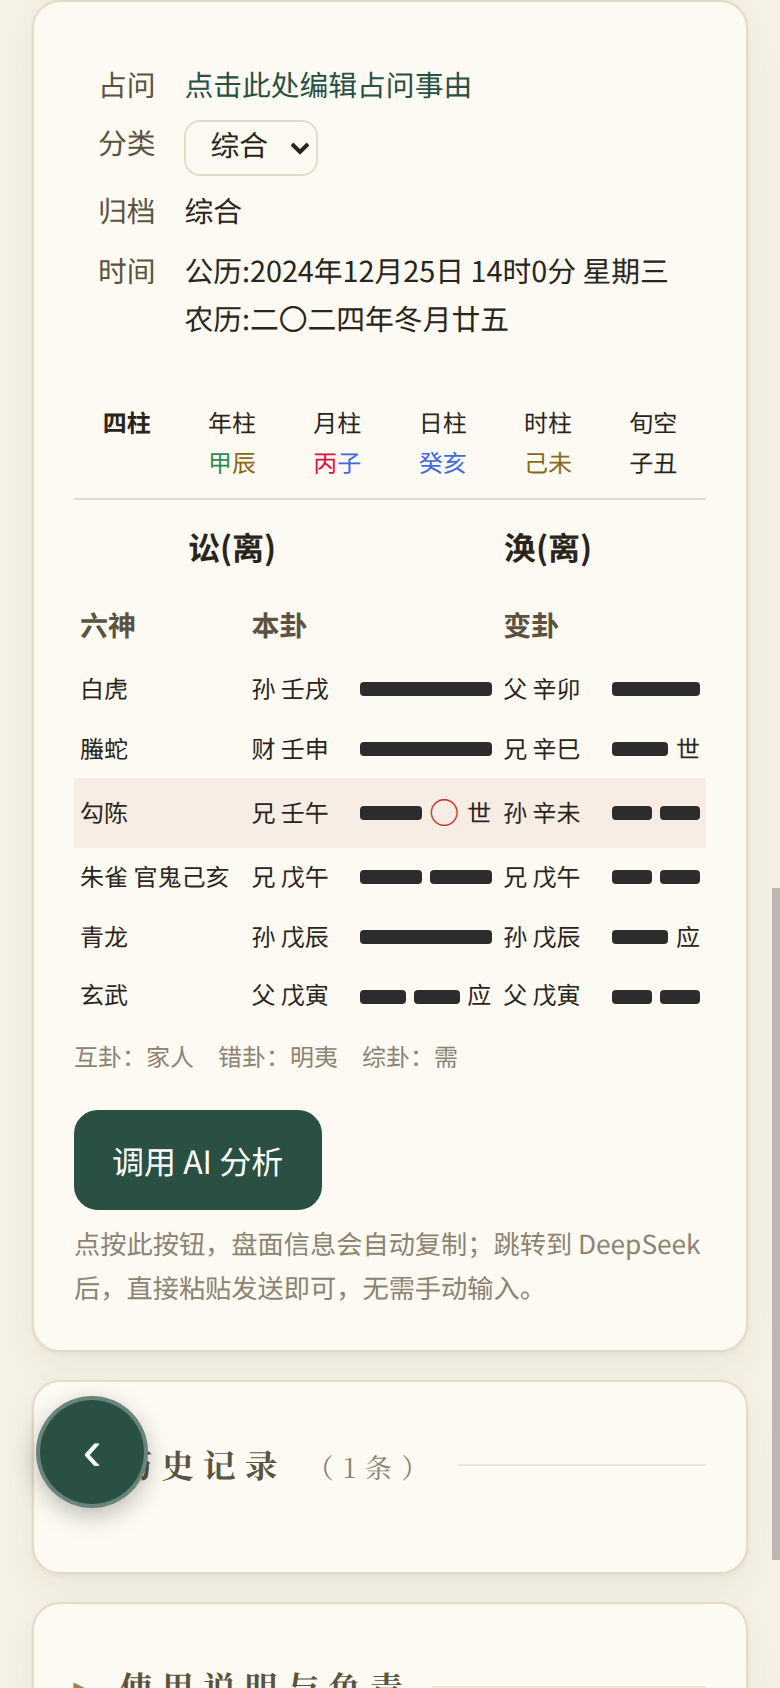
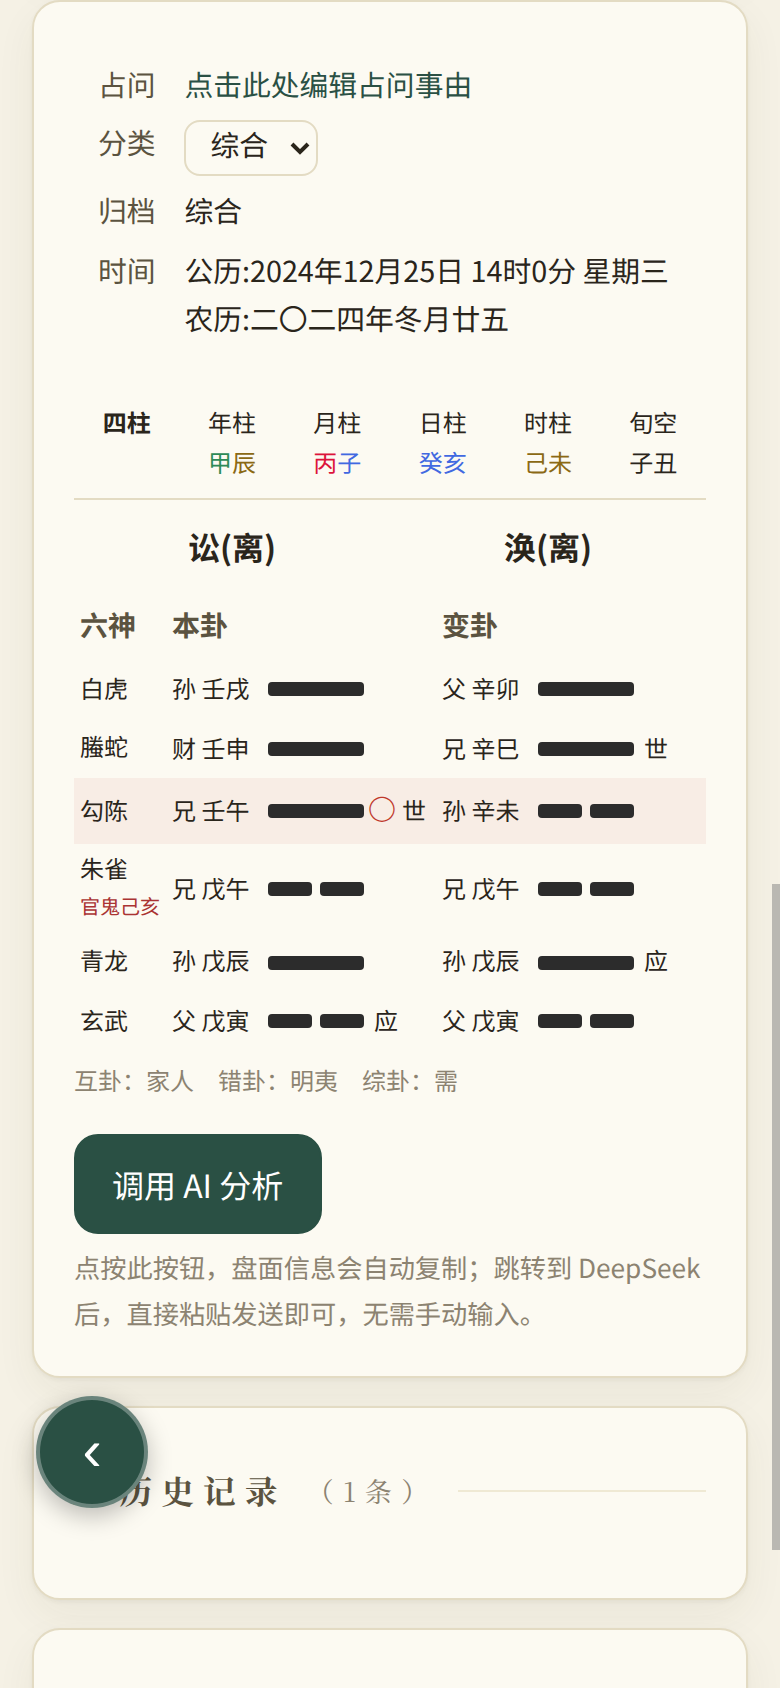
v1.4.0列车②④：紫微宫名改「交友宫」＋小字灰注「仆役」（8px，390px 实测单行不挤干支/大限，12 宫格宫名行等高 18.1px；详情头同步「交友宫（古名仆役宫）」，引擎名与 AI 文本不动）＋六爻对齐根治——废弃弹性爻条改固定列宽网格：表 table-layout:fixed、六神列 46px（伏神改列六神下方一行腾宽）、单元格 grid 定轨（六亲干支46｜爻条48｜动/世应标记1fr），12 根爻条全表统一 48px；录入预览改固定几何（条宽槽 104px＋○×标记固定 20px 列，虚线行同宽）。验收：双主题 390px 12 条宽度全等 48、双列左缘恒 134/269、

diff --git a/www/css/style.css b/www/css/style.css
@@ -994,13 +994,14 @@ details.disc-foot .hint{margin-top:9px}
 /* 卦象显示 */
 .ly-gua-display{display:flex;gap:20px;align-items:flex-start;margin:12px 0}
 .ly-gua-lines{display:flex;flex-direction:column;gap:10px;min-width:120px}
-.ly-line{display:flex;align-items:center;gap:6px;height:22px;justify-content:center}
+.ly-line{display:flex;align-items:center;height:22px;justify-content:center}
+.ly-barwrap{display:flex;gap:6px;width:104px;flex:0 0 auto}
 .ly-line .ly-bar{height:8px;background:var(--ink);border-radius:2px}
-.ly-line.yang .ly-bar{width:100px}
-.ly-line.yin .ly-bar.left,.ly-line.yin .ly-bar.right{width:46px}
-.ly-line.empty .ly-bar.ghost{width:100px;background:var(--line);opacity:.4}
+.ly-line.yang .ly-bar{width:104px}
+.ly-line.yin .ly-bar.left,.ly-line.yin .ly-bar.right{width:49px}
+.ly-line.empty .ly-bar.ghost{width:104px;background:var(--line);opacity:.4}
 .ly-line.dong .ly-bar{background:#b8860b}
-.ly-dong{color:#b8860b;font-weight:700;margin-left:4px}
+.ly-dong{color:#b8860b;font-weight:700;width:20px;flex:0 0 auto;text-align:center;margin-left:4px}
 .ly-gua-info{flex:1}
 .ly-gua-name{font-size:1.4rem;font-weight:700;color:var(--gold);margin-bottom:8px}
 .ly-gua-ci{font-size:.95rem;line-height:1.7;color:var(--ink-2)}
@@ -1189,7 +1190,8 @@ details.disc-foot .hint{margin-top:9px}
 .zw-sqjq{color:#888;font-size:9px}
 .zw-xiaoxian{color:#999;font-size:8px;white-space:nowrap;overflow:hidden}
 .zw-gz-pro{font-size:16px;font-weight:bold;margin-top:2px}
-.zw-pname-pro{color:#a33;font-weight:bold;font-size:11px}
+.zw-pname-pro{color:#a33;font-weight:bold;font-size:11px;white-space:nowrap}
+.zw-pname-old{font-size:8px;color:#999;font-weight:normal;margin-left:2px}
 .zw-center-pro{background:var(--card);padding:8px;text-align:center;grid-column:span 2;grid-row:span 2}
 .zw-c-name{font-size:14px;font-weight:bold}
 .zw-c-time{font-size:10px;color:#666;margin:2px 0}
@@ -1292,24 +1294,35 @@ details.disc-foot .hint{margin-top:9px}
 .lyb sup{color:#c0392b;font-size:9px}
 [data-theme="night"] .lyb-y,[data-theme="night"] .lyb-n{background:#ddd}
 /* === 六爻像素级（照专业盘实测）=== */
-.lyx{width:100%;max-width:100%;border-collapse:collapse;font-size:12px;line-height:1.8}
+.lyx{width:100%;max-width:100%;table-layout:fixed;border-collapse:collapse;font-size:12px;line-height:1.8}
 .lyx th,.lyx td{border:none;padding:4px 3px;vertical-align:middle}
-.lyx th:first-child,.lyx td.lyx-shen{white-space:nowrap;padding-right:8px}
-/* 单元格 flex 排版（2026-10-22 溢出根治）：六亲干支/动标记/世应定宽，爻条弹性伸缩吸收全部宽度差。
-   旧版为 nowrap + 固定宽爻条，三列 min-content 合计 331px > 卡片内容宽 316px（390px 视口实测），
-   表格无法收缩必然溢出；且爻条宽度有两段重复定义（32px 被后段 38px 静默覆盖，v1.1.2 整包导入时带入）。 */
-.lyx-flex{display:flex;align-items:center;gap:4px;min-width:0}
-.lyx .lyx-info{flex:0 0 auto;min-width:4.2em}
+/* 固定列宽网格（2026-10-22 对齐根治，废弃弹性爻条）：上一版爻条 flex 弹性伸缩虽堵住溢出，
+   但每行文字长短不一使爻条参差（用户真机实测三爻过长、变卦右列视觉出框、预览不对齐）。
+   本版：表 table-layout:fixed，六神列 46px（伏神改列六神下方一行腾宽），本/变卦两列等分；
+   单元格内 grid 定轨（六亲干支 46px｜爻条 48px｜动/世应标记 1fr），爻条全表统一 48px
+   （阳爻整条 48、阴爻 22+4+22），任何行内容长短都不再影响爻条宽度与位置。 */
+.lyx-flex{display:grid;grid-template-columns:46px 48px 1fr;column-gap:2px;align-items:center;min-width:0}
+.lyx .lyx-info{white-space:nowrap}
 .lyx .lyx-info sup{font-size:9px;color:#c0392b;vertical-align:super;line-height:1;margin-left:1px}
-.lyx-bar{flex:1 1 auto;display:flex;align-items:center;gap:4px;min-width:16px}
-.lyx-y,.lyx-n{display:block;flex:1 1 auto;height:7px;background:#2c2c2c;border-radius:2px}
+.lyx-bar{display:flex;align-items:center;gap:4px;width:48px;flex:none}
+.lyx-y{display:block;width:48px;height:7px;background:#2c2c2c;border-radius:2px}
+.lyx-n{display:block;width:22px;height:7px;background:#2c2c2c;border-radius:2px}
 .lyx th{color:var(--ink-2);font-weight:600;font-size:14px;text-align:left}
-.lyx th:first-child,.lyx td.lyx-shen{width:5.5em;text-align:left}
-.lyx td:nth-child(2),.lyx td:nth-child(3){width:auto;text-align:left}
+.lyx th:first-child,.lyx td.lyx-shen{width:46px;text-align:left}
+.lyx td.lyx-shen{line-height:1.5}
+.lyx .ly-fushen{font-size:10px}
+.lyx td:nth-child(2),.lyx td:nth-child(3){text-align:left}
 .lyx-mv{background:rgba(180,40,40,0.06)}
-.lyx-d{color:#c0392b;font-weight:700;font-size:15px;flex:0 0 auto}
-.lyx .lyx-sy{flex:0 0 auto}
+.lyx-d{color:#c0392b;font-weight:700;font-size:14px}
+.lyx-mark{white-space:nowrap;min-width:0}
+.lyx .lyx-sy{margin-left:3px}
 .lyx sup{color:#c0392b;font-size:10px}
+@media (max-width:380px){
+  .lyx-flex{grid-template-columns:44px 40px 1fr}
+  .lyx-bar{width:40px}
+  .lyx-y{width:40px}
+  .lyx-n{width:18px}
+}
 [data-theme="night"] .lyx-y,[data-theme="night"] .lyx-n{background:#e0e0e0}
 /* 六爻手动录入（2026-10-22 新功能）：模式分段切换 / 共用起卦时间 / 逐爻录入 */
 /* .ly-stage/.btn-row 是 author 层 display:flex，会盖过 hidden 属性，须显式守卫 */

diff --git a/www/js/liuyao.js b/www/js/liuyao.js
@@ -263,23 +263,24 @@ var LiuYao = (function () {
     var box = $('ly-lines');
     if (!box) return;
     box.innerHTML = '';
-    // 自上而下显示（第六爻在上）
+    // 自上而下显示（第六爻在上）。固定几何（2026-10-22 对齐根治）：每行 = 条宽槽 104px
+    // （阳爻整条 104、阴爻 49+6+49）＋动标记固定列 20px，动/静/虚线行同宽同位，不再随标记有无漂移。
     for (var i = lines.length - 1; i >= 0; i--) {
       var l = lines[i];
       var d = document.createElement('div');
       d.className = 'ly-line ' + (l.yao === 1 ? 'yang' : 'yin') + (l.dong ? ' dong' : '');
-      if (l.yao === 1) {
-        d.innerHTML = '<span class="ly-bar"></span>' + (l.dong ? '<span class="ly-dong">○</span>' : '');
-      } else {
-        d.innerHTML = '<span class="ly-bar left"></span><span class="ly-bar right"></span>' + (l.dong ? '<span class="ly-dong">×</span>' : '');
-      }
+      var bars = l.yao === 1
+        ? '<span class="ly-bar"></span>'
+        : '<span class="ly-bar left"></span><span class="ly-bar right"></span>';
+      var mk = l.dong ? (l.yao === 1 ? '○' : '×') : '';
+      d.innerHTML = '<span class="ly-barwrap">' + bars + '</span><span class="ly-dong">' + mk + '</span>';
       box.appendChild(d);
     }
     // 未摇出的爻显示虚线
     for (var j = lines.length; j < 6; j++) {
       var e = document.createElement('div');
       e.className = 'ly-line empty';
-      e.innerHTML = '<span class="ly-bar ghost"></span>';
+      e.innerHTML = '<span class="ly-barwrap"><span class="ly-bar ghost"></span></span><span class="ly-dong"></span>';
       box.insertBefore(e, box.firstChild);
     }
   }
@@ -471,8 +472,8 @@ var LiuYao = (function () {
       var syMark = '';
       if (i === sy.shi) syMark = ' 世';
       else if (i === sy.ying) syMark = ' 应';
-      // 六神+伏神同行
-      var shenFu = beasts[i] + (fuShen[i] ? ' ' + fuShen[i] : '');
+      // 六神+伏神：伏神改列于六神下方（固定列宽网格的宽度预算所限，2026-10-22 对齐根治）
+      var shenFu = beasts[i] + (fuShen[i] ? '<br><span class="ly-fushen">' + fuShen[i] + '</span>' : '');
       // 变卦
       var bInfo = info, bBar = yaoBar3(l.yao === 1), bSY = syMark;
       if (hasDong && bianNj) {
@@ -485,12 +486,12 @@ var LiuYao = (function () {
         if (i === bianSy.shi) bSY = ' 世';
         else if (i === bianSy.ying) bSY = ' 应';
       }
+      var mark = '<span class="lyx-mark">' + dong + (syMark ? '<span class="lyx-sy">' + syMark.trim() + '</span>' : '') + '</span>';
+      var bMark = '<span class="lyx-mark">' + (bSY ? '<span class="lyx-sy">' + bSY.trim() + '</span>' : '') + '</span>';
       html += '<tr' + (l.dong ? ' class="lyx-mv"' : '') + '>'
         + '<td class="lyx-shen">' + shenFu + '</td>'
-        + '<td><span class="lyx-flex"><span class="lyx-info">' + info + '</span><span class="lyx-bar">' + bar + '</span>' + dong
-        + (syMark ? '<span class="lyx-sy">' + syMark.trim() + '</span>' : '') + '</span></td>'
-        + '<td><span class="lyx-flex"><span class="lyx-info">' + bInfo + '</span><span class="lyx-bar">' + bBar + '</span>'
-        + (bSY ? '<span class="lyx-sy">' + bSY.trim() + '</span>' : '') + '</span></td></tr>';
+        + '<td><span class="lyx-flex"><span class="lyx-info">' + info + '</span><span class="lyx-bar">' + bar + '</span>' + mark + '</span></td>'
+        + '<td><span class="lyx-flex"><span class="lyx-info">' + bInfo + '</span><span class="lyx-bar">' + bBar + '</span>' + bMark + '</span></td></tr>';
     }
     html += '</table>';
     // 互卦/错卦/综卦

diff --git a/www/js/ziwei.js b/www/js/ziwei.js
@@ -237,7 +237,11 @@ function buildCell(b) {
   } catch (e) {}
   if (item) cell += '<div class="zw-scope-name">' + LAYER_LABEL[layer] + '·' + item.palaceNames[b] + '</div>';
   cell += '<div class="zw-gz-pro">' + p.heavenlyStem + p.earthlyBranch + '</div>';
-  cell += '<div class="zw-pname-pro">' + p.name + (p.isBodyPalace ? '<span class="zw-body-tag">身</span>' : '') + '</div>';
+  // 盘面宫名口径（2026-10-22 用户裁定）：仆役宫主名改「交友宫」＋小字灰注古名「仆役」；引擎 p.name 不动、AI 文本另有 dispName
+  var pnameHtml = p.name === '仆役'
+    ? '交友宫<span class="zw-pname-old">仆役</span>'
+    : p.name;
+  cell += '<div class="zw-pname-pro">' + pnameHtml + (p.isBodyPalace ? '<span class="zw-body-tag">身</span>' : '') + '</div>';
   cell += '</div>';
   return cell;
 }
@@ -289,7 +293,8 @@ function renderPalInfo() {
     var flyTxt = flyInfo(p).map(function (f) {
       return f.hua + '（' + f.star + '）→' + (f.to ? (f.isSelf ? '本宫（自化）' : f.to.name) : '—');
     }).join('、');
-    host.innerHTML = '<b>' + p.name + '（' + p.heavenlyStem + p.earthlyBranch + '）</b>'
+    var headName = p.name === '仆役' ? '交友宫（古名仆役宫）' : p.name;
+    host.innerHTML = '<b>' + headName + '（' + p.heavenlyStem + p.earthlyBranch + '）</b>'
       + '<br>三方四正：' + sf
       + (selfTxt ? '<br>自化：' + selfTxt : '')
       + '<br>飞化：' + flyTxt;

diff --git a/qimen-build/probe_ziwei.py b/qimen-build/probe_ziwei.py
@@ -1,0 +1,82 @@
+#!/usr/bin/env python3
+"""紫微宫名量测（②）：390px 下找含「交友」宫格，量宫名行是否单行、格内各行是否被挤压，
+并截全盘图（双主题）留档；点该宫查详情头古名注。"""
+import importlib.util, json, os, subprocess, time, urllib.request
+
+spec = importlib.util.spec_from_file_location("smoke", os.path.expanduser("~/workspace/wuri-app/smoke-test.py"))
+smoke = importlib.util.module_from_spec(spec); spec.loader.exec_module(smoke)
+CDP, WS, free_port = smoke.CDP, smoke.WS, smoke.free_port
+WWW = os.path.expanduser("~/workspace/wuri-web/www")
+URL = "file://" + WWW + "/index.html"
+OUT = os.path.expanduser("~/workspace/wuri-web/qimen-build/shots-zw")
+os.makedirs(OUT, exist_ok=True)
+
+def main():
+    port = free_port()
+    chrome = subprocess.Popen(["/opt/meta-chromium/chrome", "--headless=old", "--no-sandbox", "--disable-gpu",
+        "--allow-file-access-from-files", f"--remote-debugging-port={port}",
+        "--remote-debugging-address=127.0.0.1", "--window-size=390,844", "about:blank"],
+        stdout=subprocess.DEVNULL, stderr=subprocess.DEVNULL)
+    try:
+        ws_url = None
+        for _ in range(50):
+            try:
+                with urllib.request.urlopen(f"http://127.0.0.1:{port}/json/list", timeout=2) as r:
+                    pages = json.loads(r.read())
+                ws_url = pages[0]["webSocketDebuggerUrl"]; break
+            except Exception:
+                time.sleep(0.4)
+        cdp = CDP(WS(ws_url))
+        cdp.call("Page.enable"); cdp.call("Runtime.enable")
+        cdp.call("Emulation.setDeviceMetricsOverride",
+                 {"width": 390, "height": 844, "deviceScaleFactor": 2, "mobile": True})
+        cdp.call("Page.addScriptToEvaluateOnNewDocument",
+                 {"source": "try { localStorage.setItem('wuri_pro_redeem','1'); } catch(e) {}"})
+        cdp.call("Page.navigate", {"url": URL})
+        time.sleep(3.5)
+        ev = lambda expr: cdp.evaluate(expr)
+
+        def shot(name):
+            r = cdp.call("Page.captureScreenshot", {"format": "png"})
+            import base64
+            open(os.path.join(OUT, name + ".png"), "wb").write(base64.b64decode(r["data"]))
+
+        ev("document.getElementById('ziwei-enter').click(); 'ok'"); time.sleep(1.0)
+        ev("document.getElementById('zw-date').value='1990-01-01'; document.getElementById('zw-time').value='23:30'; 'ok'")
+        ev("document.getElementById('zw-go').click(); 'ok'")
+        time.sleep(1.6)
+        for theme in ("day", "night"):
+            ev(f"document.documentElement.setAttribute('data-theme','{theme}'); 'ok'"); time.sleep(0.5)
+            m = ev("""(() => {
+              const cells = [...document.querySelectorAll('.zw-cell')];
+              const target = cells.find(c => { const n = c.querySelector('.zw-pname-pro'); return n && n.textContent.includes('交友'); });
+              if (!target) return { found: false, names: cells.map(c => { const n = c.querySelector('.zw-pname-pro'); return n ? n.textContent : '?'; }) };
+              const nm = target.querySelector('.zw-pname-pro');
+              const nr = nm.getBoundingClientRect(), cr = target.getBoundingClientRect();
+              const range = document.createRange(); range.selectNodeContents(nm);
+              const lines = range.getClientRects().length;
+              const rows = [...target.children].map(ch => ({ cls: ch.className, h: +ch.getBoundingClientRect().height.toFixed(1),
+                                                             w: +ch.getBoundingClientRect().width.toFixed(1) }));
+              const old = nm.querySelector('.zw-pname-old');
+              return { found: true, text: nm.textContent, lines, nameW: +nr.width.toFixed(1), cellW: +cr.width.toFixed(1),
+                       cellH: +cr.height.toFixed(1), oldFs: old ? getComputedStyle(old).fontSize : null, rows,
+                       scrollW: target.scrollWidth, clientW: target.clientWidth };
+            })()""")
+            print(theme, json.dumps(m, ensure_ascii=False))
+            ev("document.getElementById('view-ziwei').scrollTop = 0; 'ok'"); time.sleep(0.3)
+            shot(f"{theme}-ziwei")
+            if theme == "day":
+                ev("""(() => { const cells = [...document.querySelectorAll('.zw-cell')];
+                  const t = cells.find(c => { const n = c.querySelector('.zw-pname-pro'); return n && n.textContent.includes('交友'); });
+                  if (t) t.click(); return 'ok'; })()""")
+                time.sleep(0.6)
+                head = ev("document.getElementById('zw-pal-info').textContent.slice(0, 60)")
+                print("palace detail head:", head)
+                shot("day-ziwei-detail")
+        errs = [e for e in cdp.events if e.get("method") == "Runtime.exceptionThrown"]
+        print("JS exceptions:", len(errs))
+    finally:
+        chrome.terminate()
+
+if __name__ == "__main__":
+    main()

diff --git a/qimen-build/smoke_ly.py b/qimen-build/smoke_ly.py
@@ -73,6 +73,19 @@ def main():
                   and m["maxCellRight"] <= m["contentRight"] + 1 and m["tableSW"] <= m["detailCW"] + 1
                   and m["viewSW"] <= 390, m)
 
+        def bar_measure():
+            return ev("""(() => { const bars = [...document.querySelectorAll('.lyx .lyx-bar')];
+              const colL = c => [...document.querySelectorAll('.lyx tr td:nth-child(' + c + ') .lyx-bar')]
+                .map(b => +b.getBoundingClientRect().left.toFixed(1));
+              return { widths: bars.map(b => +b.getBoundingClientRect().width.toFixed(1)),
+                       lefts2: colL(2), lefts3: colL(3) }; })()""")
+
+        def check_bars(theme):
+            bm = bar_measure()
+            ok = bm and len(bm["widths"]) == 12 and max(bm["widths"]) - min(bm["widths"]) <= 0.6 \
+                and max(bm["lefts2"]) - min(bm["lefts2"]) <= 1 and max(bm["lefts3"]) - min(bm["lefts3"]) <= 1
+            check(f"[{theme}] 12 根爻条等宽且分列对齐", ok, bm)
+
         ev("document.getElementById('liuyao-enter').click(); 'ok'"); time.sleep(1.2)
 
         # ---------- Phase A：手动录入交互 ----------
@@ -91,6 +104,13 @@ def main():
         check("录满6爻标题", "录满" in title, title)
         filled = ev("document.querySelectorAll('#ly-lines .ly-line:not(.empty)').length")
         check("预览已录6爻成型", filled == 6, filled)
+        pv = ev("""(() => { const wraps = [...document.querySelectorAll('#ly-lines .ly-barwrap')];
+          const dongs = [...document.querySelectorAll('#ly-lines .ly-dong')];
+          return { lefts: wraps.map(r => +r.getBoundingClientRect().left.toFixed(1)),
+                   widths: wraps.map(r => +r.getBoundingClientRect().width.toFixed(1)),
+                   dongLefts: dongs.map(r => +r.getBoundingClientRect().left.toFixed(1)) }; })()""")
+        check("预览六线左缘对齐、同宽、标记成列", pv and max(pv["lefts"]) - min(pv["lefts"]) <= 1
+              and max(pv["widths"]) - min(pv["widths"]) <= 0.6 and max(pv["dongLefts"]) - min(pv["dongLefts"]) <= 1, pv)
         shot("day-01-manual", "document.getElementById('view-liuyao').scrollTop = 0")
         # 点已录的初爻（DOM 中最后一个已录元素）→ 重选
         ev("""(() => { const f = document.querySelectorAll('#ly-lines .ly-line:not(.empty)');
@@ -119,6 +139,7 @@ def main():
         for theme in ("day", "night"):
             ev(f"document.documentElement.setAttribute('data-theme','{theme}'); 'ok'"); time.sleep(0.5)
             check_overflow(theme)
+            check_bars(theme)
             shot(f"{theme}-02-result", "document.getElementById('ly-result-card').scrollIntoView({block:'start'})")
         ev("document.documentElement.setAttribute('data-theme','day'); 'ok'"); time.sleep(0.4)
         hist = ev("""(() => { const h = JSON.parse(localStorage.getItem('ly_history') || '[]');
@@ -144,6 +165,7 @@ def main():
         names2 = ev("document.querySelector('.ly-gua-names').textContent")
         check("全老阳 → 乾变坤", "乾" in names2 and "坤" in names2, names2)
         check_overflow("day")
+        check_bars("day")
         ev("document.getElementById('ly-m-clear').click(); 'ok'"); time.sleep(0.3)
         for c in ["1,1,0", "1,0,0", "1,1,0", "1,0,0", "1,1,0", "1,0,0"]:  # 既济 101010，全静
             ev(f"document.querySelector('.ly-m-btn[data-coins=\"{c}\"]').click(); 'ok'"); time.sleep(0.12)
@@ -160,6 +182,7 @@ def main():
         head2 = ev("document.getElementById('ly-head-pro-inserted').textContent")
         check("摇卦共用所填时间", "2024年12月25日" in head2, head2[:80])
         check_overflow("day")
+        check_bars("day")
 
         errs = [e for e in cdp.events if e.get("method") == "Runtime.exceptionThrown"]
         check("零 JS 异常", len(errs) == 0, len(errs))
